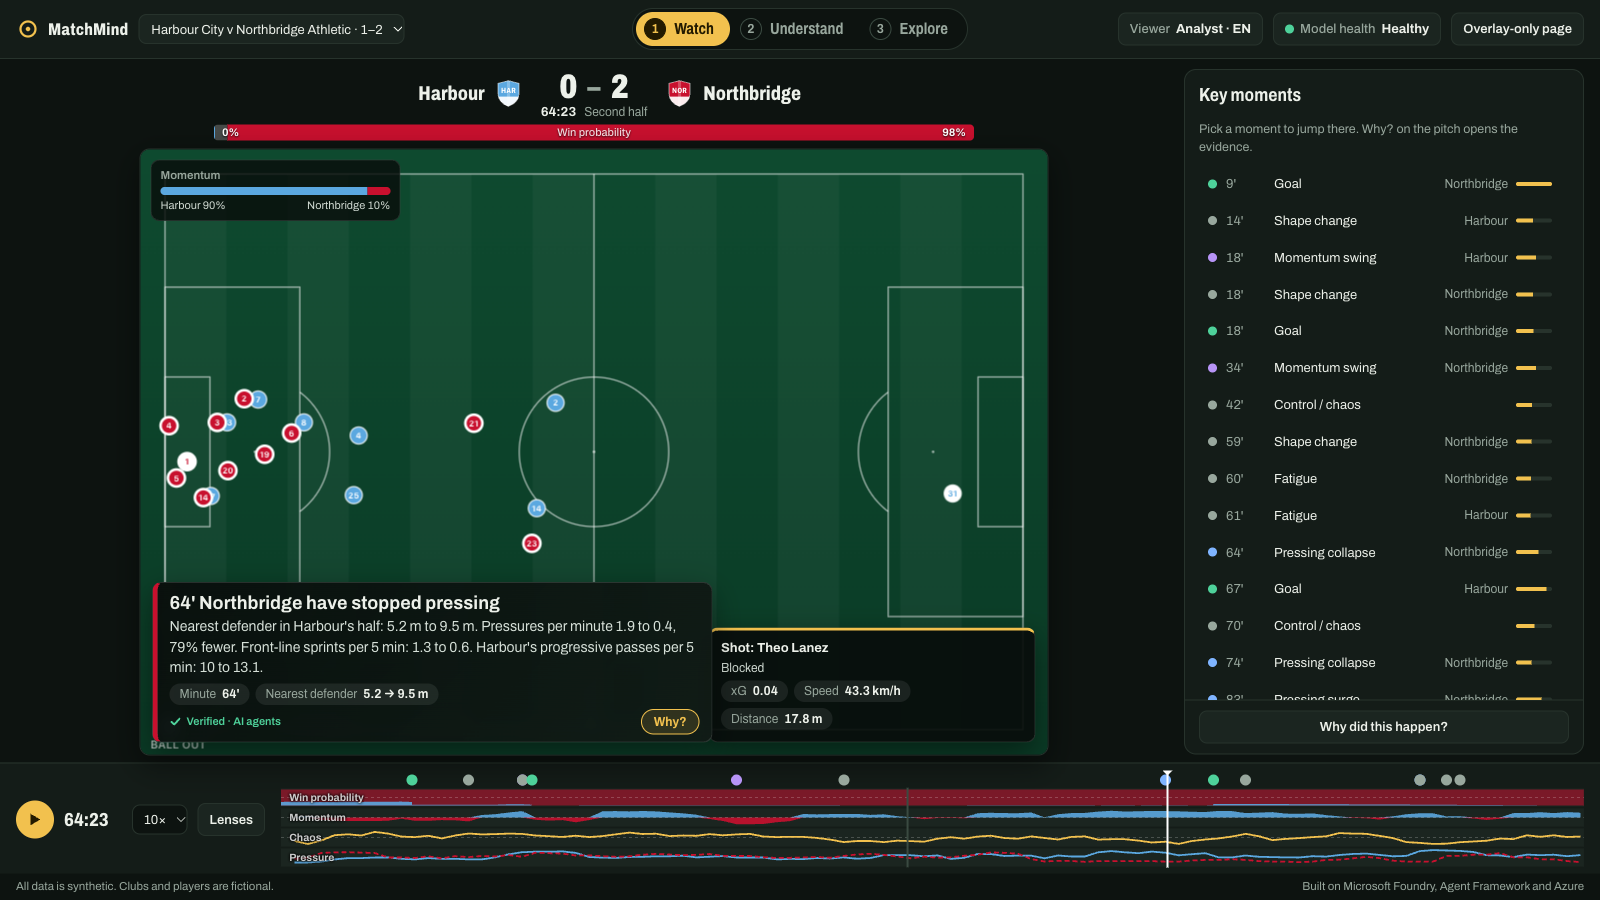
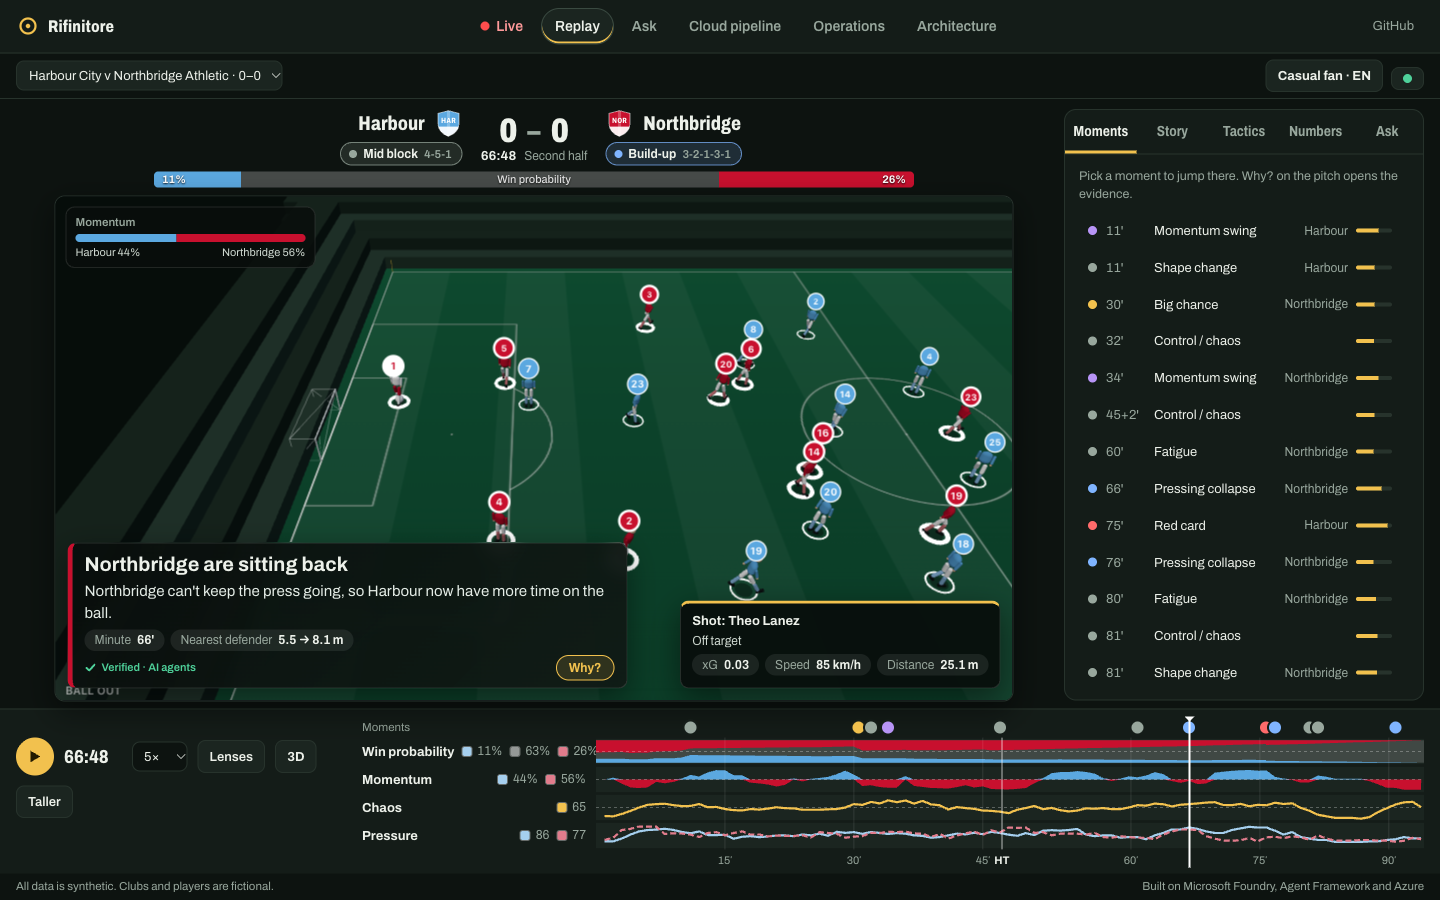
Fresh screenshots of the whole product under the new name and menu; an Operations screenshot; the README describes the five-tab panel and the one menu

diff --git a/README.md b/README.md
@@ -9,6 +9,8 @@ Built for the Microsoft × Premier League *Inside the Game* developer hackathon.
 
 ![A live match: the 3D pitch, the Video feed card showing what the detector found and how close it is to the truth, and the speed control](docs/img/live-match.png)
 
+![The Operations page of the running service: readiness, request latency and errors, how every story was made, cache hits and live matches against capacity](docs/img/operations.png)
+
 Football stories do not end at the scoreline. Rifinitore ingests a stream of synthetic match events and
 tracking, works out *what changed and why it matters*, and delivers it as timed on-screen graphics and
 recaps that read differently for an analyst and a casual fan, in English, Spanish or Turkish. Every
@@ -26,21 +28,27 @@ A **Video feed** card on a live match shows the video the physical analysis read
 (<http://kaanoguzkan.com/insidethegamehackathon/>) plays the recorded matches with no backend. The live path is described in [docs/live-pipeline.md](docs/live-pipeline.md),
 the Brain's API in [docs/brain-api.md](docs/brain-api.md), running it as a service in [docs/enterprise.md](docs/enterprise.md).
 
-## How to use the match center (Replays)
+## How to use it
 
-The pitch always fits the screen. Depth comes from three steps in the top bar (keys `1`, `2`, `3`), so nobody has to scroll to find things:
+One menu on every page: **Live · Replay · Ask · Cloud pipeline · Operations · Architecture**. The start page puts the prime features first (watch live, replay a match, ask the
+match, choose how you watch). In the match center the pitch always fits the screen, and one panel on the right has five tabs (keys `1` to `5`), so nobody has to scroll to find things:
 
-| Step | Question it answers | What you see |
+| Tab | Question it answers | What you see |
 |---|---|---|
-| **1 Watch** | What is happening? | The pitch with verified lower-thirds, the score and live win probability, the key-moment list. |
-| **2 Understand** | Why did it happen? | The recap in your language and tone, the tactics of both teams, the moments; **Why?** on any graphic opens the evidence drawer (explanation, caveats, before/after numbers, agent trace). |
-| **3 Explore** | What do the numbers say? | Eleven analytics views grouped by question (the match, shape and space, players, phases of play, context). Views that have a pitch drawing offer **Show on pitch**. |
+| **Moments** | What is happening? | The key moments of the match, each one a click away from the pitch, which shows verified lower-thirds, the score and the live win probability. |
+| **Story** | What is the story? | The preview, half-time and full-time recaps in your language and tone. **Why?** on any graphic opens the evidence drawer (explanation, caveats, before/after numbers, agent trace). |
+| **Tactics** | How are the teams set up? | Both teams' shapes in every phase of play, set pieces and style tags. |
+| **Numbers** | What do the numbers say? | Eleven analytics views grouped by question (the match, shape and space, players, phases of play, context). Views that have a pitch drawing offer **Show on pitch**. |
+| **Ask** | Anything else? | Ask the match a question in plain words (below). |
 
-The match strip at the bottom never goes away: play, speed, **View** (2D or 3D, camera angle, follow the ball), **Lenses** (pitch control, team shape, offside line, passing options, runs) and a draggable ribbon of win probability, momentum, chaos and pressure with the key moments marked. Viewer settings (analyst or casual, language, club, followed player, accessibility, two viewers side by side) and the model-health switch live in menus in the top bar. The whole view is in the URL, so any state can be shared.
+The viewer menu (top right of the match center) sets analyst or casual, language, favourite club and a followed player, and can show two viewers side by side; **More** has the Live AI switch,
+the match report (PDF), the model-health simulation and the overlay-only broadcast page.
+
+The match strip at the bottom never goes away: play, speed, **View** (2D or 3D, camera angle, follow the ball), **Lenses** (pitch control, team shape, offside line, passing options, runs) and a draggable ribbon of win probability, momentum, chaos and pressure with the key moments marked.
 
 **Ask the match.** In the panel, the **Ask** tab takes a question ("who controlled the match?", "how did the pressing change?") and answers it from the match data: a planner picks match-data tools, code runs them, an answerer writes the reply from their results only, and the Verifier checks every number and name. Each answer shows which tools it looked at and how long it took; an off-topic question is politely refused. It works in English, Spanish and Turkish and needs the Brain, like Live AI.
 
-**Live AI.** Switch it on (top bar, or inside the evidence drawer) and select a moment: the page asks the Brain to write that
+**Live AI.** Switch it on (under **More**, or inside the evidence drawer) and select a moment: the page asks the Brain to write that
 moment's story for each viewer on screen, and swaps the model's text in for the recorded one. The drawer shows who wrote it
 (`E R C ✓`: editor, router, composer, verifier), how long it took, and whether it came from the cache. If the Brain is asleep
 the page says so and waits (a Container App that scaled to zero needs about 20 seconds); if it is down or slow, the recorded

diff --git a/SOLUTION PLAN.md b/SOLUTION PLAN.md
@@ -34,7 +34,7 @@
 | **Ask the match** (`POST /api/ask`, Ask tab) | **Done, run live** | Planner (model or keywords) chooses from an allow-list of the MCP tools, code runs them, an answerer writes from the results only, the Verifier checks every number and name, each answer reports its tools, time, tokens and cost; off-topic questions are refused; repeated questions are cached (`docs/agents.md`). Found live: the Verifier cannot check the logic joining facts |
 | **Public-API guards** | **Done, checked live** | Per-client rate limit, in-flight cap, admin key for expensive options, cohort validation, security headers, token and log ceilings (`docs/running-on-azure.md`) |
 | Overlay Producer, JSON Schemas, replay packages | Done | Version 2 packages; 3 matches, about 10 MB; recaps 3 kinds x 8 cohorts; healthy, unreliable and outage variants |
-| Web app | Done | Fit-to-screen pitch, a three-step path (Watch, Understand, Explore), overlays, viewer and model-health menus, match strip with story ribbon, evidence drawer, recaps, Tactics tab, Explore workspace (11 views in 5 groups), win-probability line, pitch lenses, EN/ES/TR UI, accessibility options, **Live AI switch** |
+| Web app | Done | Fit-to-screen pitch, one menu on every page and a five-tab panel (Moments, Story, Tactics, Numbers, Ask), overlays, viewer and model-health menus, match strip with story ribbon, evidence drawer, recaps, Tactics tab, Explore workspace (11 views in 5 groups), win-probability line, pitch lenses, EN/ES/TR UI, accessibility options, **Live AI switch** |
 | MCP server (25 tools) and Brain API | Done | Verified over real HTTP, in tests, in Docker and live; tools run in worker threads and matches preload so a cold call no longer freezes the service |
 | Evals and CI gates | Done | `matchmind evals`; reproducibility check is informational; CI runs tests in parallel |
 | Dockerfile, Bicep, `azd`, GitHub Actions | **Done, deployed** | Image builds from `ghcr.io` (Docker Hub rate-limited it) and runs on Container Apps; Bicep provisions repeatedly; CI and the Pages mirror pass on GitHub |
@@ -43,7 +43,7 @@
 | Opta-style analytics | Done | Win probability, possession value (VAEP style), xGOT, pitch control, packing and line breaks, networks, measured formations, runs, load, transitions, set-piece review; models fitted from simulated matches (`docs/analytics.md`) |
 | Season history, milestones, prediction, radars | Done | 42 simulated matches; table, form, head-to-head, records, Poisson prediction, goal milestones, player radars and "plays like" |
 | Pitch graphics | Done | `pitch_graphic` overlays with geometry; live pitch control, team shape, offside line, passing options and run layers in the match center |
-| **Live matches and the cloud pipeline** | **Done, deployed and run end to end** | *Go live* plays a match for one viewer inside the Brain (own clock, own store, the same analyser, interpreter and agents), with the full match center and a shared Cosmos cache so identical demo moments are instant for later viewers. The event-driven path (Container Apps Job, Blob, Event Grid, Functions, Cosmos change feed, SignalR, Brain, Foundry) is deployed and visible at `#pipeline`. `#ops` and `/api/ops` show requests, latency, story quality and capacity; Bicep adds an availability test and alerts; CodeQL and Dependabot run in CI. The earlier shared-channel and season design is still in the code but unused. |
+| **Live matches and the cloud pipeline** | **Done, deployed and run end to end** | **Live** plays a match for one viewer inside the Brain (own clock, own store, the same analyser, interpreter and agents), with the full match center and a shared Cosmos cache so identical demo moments are instant for later viewers. The event-driven path (Container Apps Job, Blob, Event Grid, Functions, Cosmos change feed, SignalR, Brain, Foundry) is deployed and visible at `#pipeline`. `#ops` and `/api/ops` show requests, latency, story quality and capacity; Bicep adds an availability test and alerts; CodeQL and Dependabot run in CI. The earlier shared-channel and season design is still in the code but unused. |
 | Foundry red-teaming, content-safety policy, hosted recap agent | Not built | |
 | Demo video | Not recorded | Required: under two minutes, public link |
 

diff --git a/docs/live-pipeline.md b/docs/live-pipeline.md
@@ -2,7 +2,7 @@
 
 Two live paths share the same stages (analyse, detect moments, write verified stories) and the same code:
 
-* **Streams** (what the match center's *Go live* uses): one viewer, one match, played in the Brain's process with that viewer's own clock. See [Streams](#streams-the-same-stages-in-one-process).
+* **Streams** (what **Live** in the menu uses): one viewer, one match, played in the Brain's process with that viewer's own clock. See [Streams](#streams-the-same-stages-in-one-process).
 * **The event-driven path** (the *Cloud pipeline* page, `#pipeline`): a Container Apps Job plays the match into Cosmos DB and Blob Storage and Azure carries it through Event Grid, Functions, the Brain and SignalR,
   as described under [The pipeline](#the-pipeline). It runs one match at a time and is the cloud-native reference for the stages.
 

diff --git a/docs/enterprise.md b/docs/enterprise.md
@@ -19,6 +19,8 @@ What an operator gets, and where the limits are. Everything here is in the repos
 ## Observability
 
 - OpenTelemetry to Application Insights (`src/matchmind/telemetry.py`): a span per agent call and per verification, request telemetry, and the model's token counts.
+![The Operations page](img/operations.png)
+
 - `GET /api/ops` and the page at `#ops` show the last fifteen minutes without opening the portal: requests, errors, latency percentiles per group, how each story was made (model, repaired, template), the share of claims verified, cache hits, hedged calls, live matches against capacity. It carries no viewer identifiers.
 
 ## Data

diff --git a/docs/analytics.md b/docs/analytics.md
@@ -6,7 +6,7 @@ evidence-pack, glossary and Verifier discipline as every other number in Rifinit
 ways: in the match center (the **Explore** step and live pitch graphics, called Lenses), through MCP tools
 (`get_win_probability`, `get_key_actions` ... 25 tools in all) and as `analytics.json` in every replay package.
 
-![Win probability over a match, with each goal's swing marked (a screenshot from an earlier demo match)](img/insights-winprob.png)
+![Win probability over a match, with each goal's swing marked (the red-card match, after full time)](img/insights-winprob.png)
 
 ## What is implemented
 
